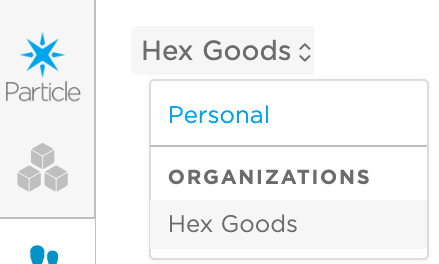
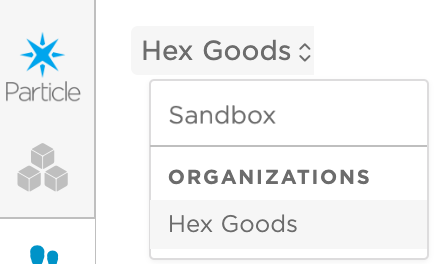
Personal space renaming
- ch75909

Changed region(s): [[0.385, 0.3939, 0.6219, 0.4848]]

diff --git a/src/content/tutorials/product-tools/organizations.md b/src/content/tutorials/product-tools/organizations.md
@@ -45,20 +45,17 @@ deployments using Products as a self-service customer before becoming an
 Enterprise customer. These Products will be re-associated to be owned by
 the Organization -- with access to those Products governed by RBAC rules
 of the org.
-- **Whitelisted users** (optional): A list of Particle users in which
-all self-service platform usage should be automatically billed to the
-Organization. This can be a helpful tool to centralize and simplify
-billing administration of all team members' usage of the platform
-(including devices/SIMs in the _Personal_ space, see below).
 
 
-## Organization vs. Personal Space
+
+## Organization vs. Sandbox Spaces
 
 With an Organization, you will now have two distinct **Spaces** within
 the Console:
-- _Personal space_: Everything owned by your Particle user
+- _Sandbox space_: Everything owned by your Particle user
 account intended for personal use of the platform. Personal devices, SIMs, and Products are associated and
-are owned by a single individual.
+are owned by a single individual. The Sandbox space can contain up to 100 cellular or Wi-Fi devices in any 
+combination at no additional charge. 
 - _Organization space_: Everything owned by an Organization intended for
 business use of the platform. This is a shared account meant to centralize visibility and access across Particle
 deployments amongst a group of team members.
@@ -74,7 +71,7 @@ navigation:
 ![Organizations space switcher](/assets/images/organizations/space-switcher-closed.png)
 
 This is your _space switcher_ that will allow you to easily toggle
-between your Organization and Personal spaces. When the space switcher
+between your Organization and Sandbox (Personal) spaces. When the space switcher
 is expanded, you will see the Organization(s) that you are a member of:
 
 ![Expanded space
@@ -158,18 +155,18 @@ alt="Org and Product Team" class="full-width" />
 
 The combination of the Organization and Product Teams give you the
 flexibility and fine-grained control needed to define the right
-heirarchy and levels of access to meet your company's needs.
+hierarchy and levels of access to meet your company's needs.
 
 ### Product Collaborator View
 
 Once you are invited to collaborate on a product team (vs being part of an organization team), and accepted
-the invitation the product will show up in your personal space with the following distinctions:
+the invitation the product will show up in your Sandbox space with the following distinctions:
 
 - If you are collaborating on a **product which belong to an organization** it will show up 
-in your personal space with a **suitcase** icon next to the name of the organization that invited you.
-- If you are collaborating on a product which belong to an individual - as his/her **personal product** - it will show up 
-in your personal space with a **person icon** next to the Particle username (email) of the individual that invited you.
-- If it is your own personal product it will show up with the same person icon and your Particle username next to it.  
+in your Sandbox space with a **suitcase** icon next to the name of the organization that invited you.
+- If you are collaborating on a product which belong to an individual - as his/her **sandbox product** - it will show up 
+in your Sandbox space with a **person icon** next to the Particle username (email) of the individual that invited you.
+- If it is your own sandbox product it will show up with the same person icon and your Particle username next to it.  
 
 Here's an example:
 
@@ -185,7 +182,7 @@ Each person on the Organization team has a **role** that dictates their
 level of permissions. The role assigned to an Organization team member
 impacts both their permissions as it relates to the Organization _as well as each
 Product belonging to the org_. This means team members will have the
-same role both at the Organization and Product lavel.
+same role both at the Organization and Product level.
 
 There are four available roles:
 
